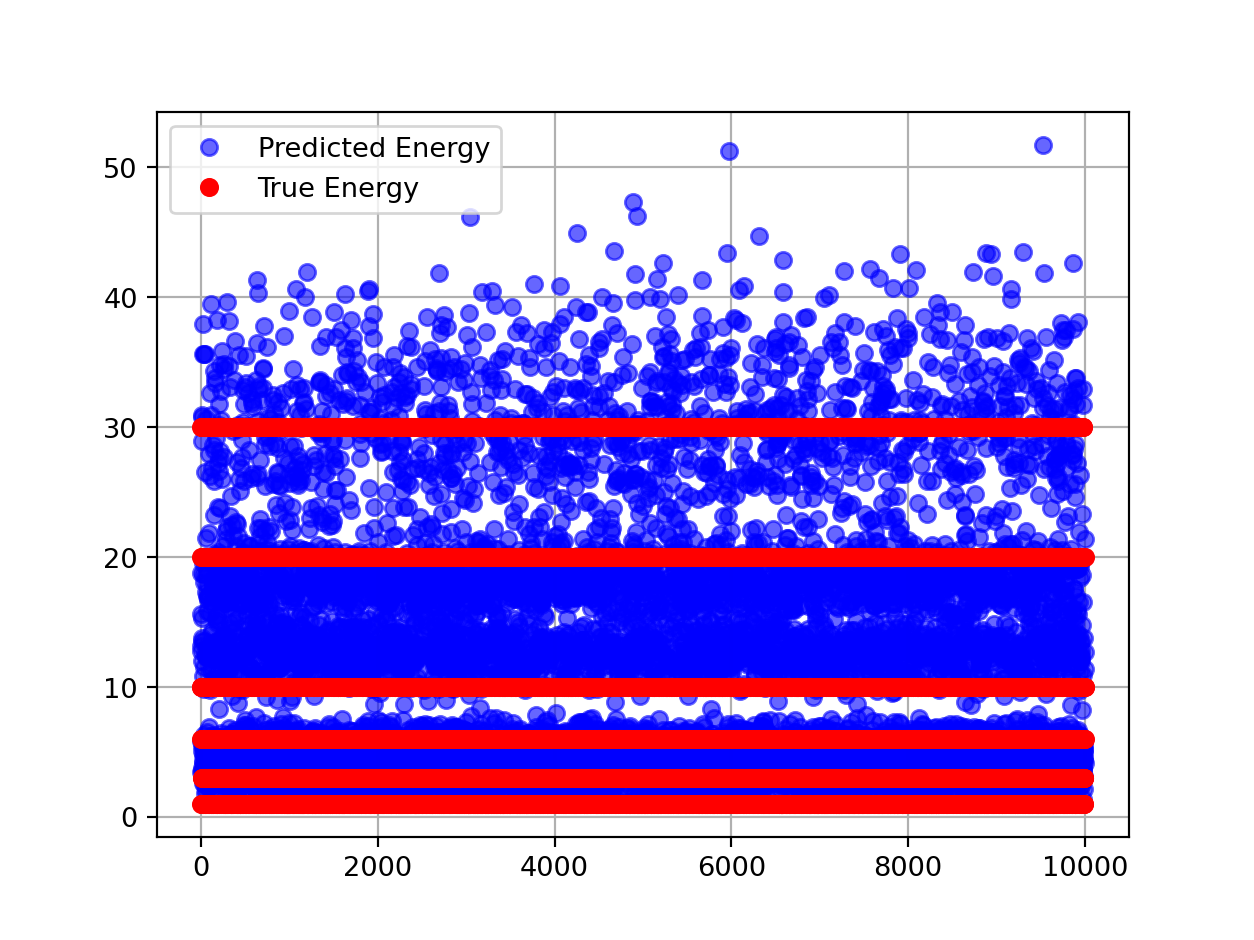
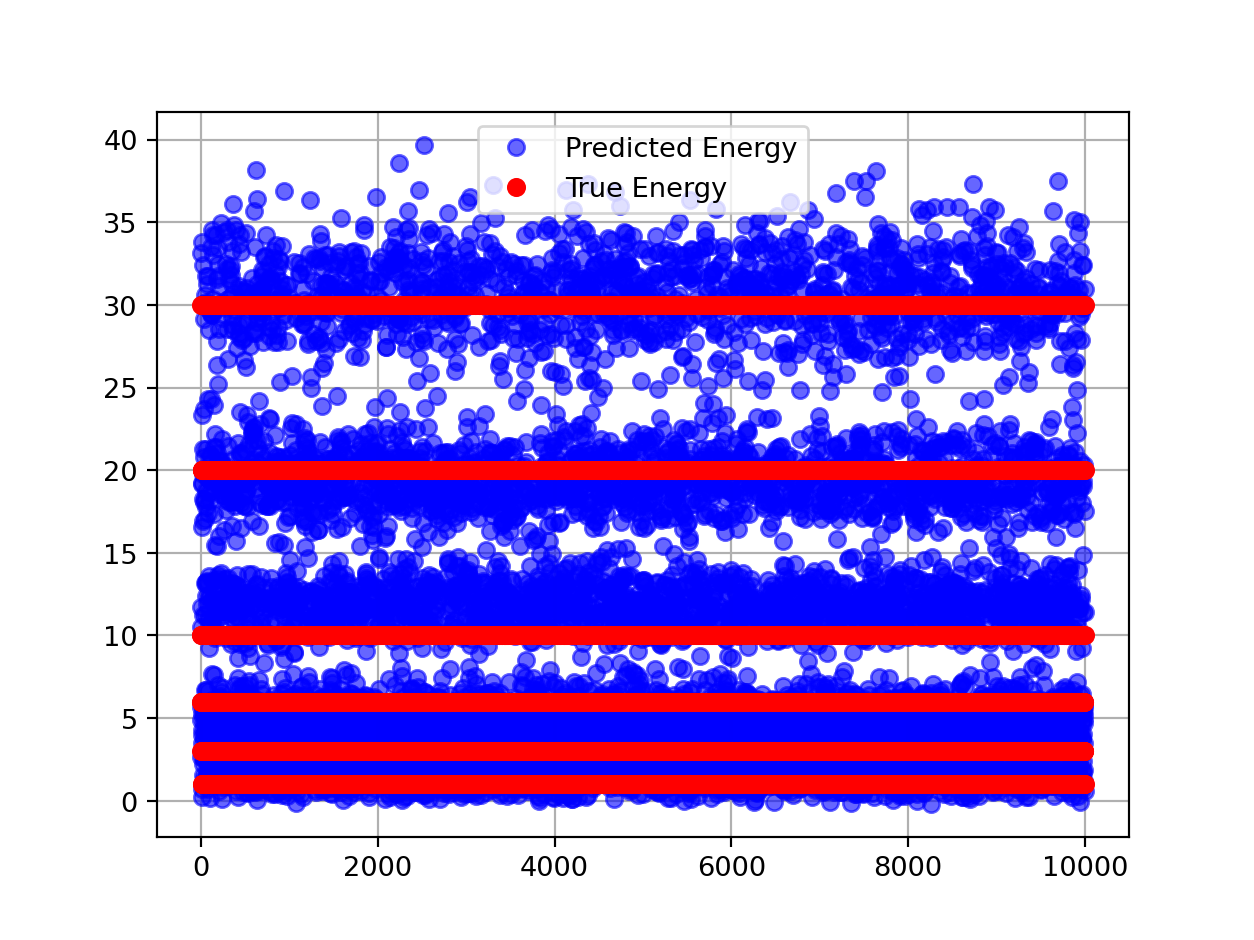
v06, MAE 1p54

diff --git a/idao/model.py b/idao/model.py
@@ -173,19 +173,19 @@ class SanteriConv(pl.LightningModule):
                     nn.Conv2d(32, 64, kernel_size=3, stride=1, padding=1),
                     nn.BatchNorm2d(64),
                     nn.ReLU(),
-                    nn.MaxPool2d(kernel_size=6, stride=1),
+                    nn.MaxPool2d(kernel_size=2, stride=2),
                     nn.Flatten(),
                 )
 
-        self.drop_out = nn.Dropout()
+        self.drop_out = nn.Dropout(p=0.3)
 
-        self.fc1 = nn.Linear(40000, 500)
-        self.fc2 = nn.Linear(500, 2)  # for classification
-        self.fc3 = nn.Linear(500, 1)  # for regression
-
+        self.fc1 = nn.Linear(14400, 1000)
+        self.fc2 = nn.Linear(1000, 2)  # for classification
+        self.fc3 = nn.Linear(1000, 1)  # for regression
+        self.relu = nn.ReLU()
 
         self.stem = nn.Sequential(
-            self.layer1, self.drop_out, self.fc1,
+            self.layer1, self.drop_out, self.fc1, self.relu,
             )
         if self.mode == "classification":
             self.classification = nn.Sequential(self.stem, self.fc2)

diff --git a/generate_submission.py b/generate_submission.py
@@ -56,7 +56,8 @@ def main():
     dl = dataset_dm.test_dataloader()
 
     dict_pred = defaultdict(list)
-    for mode in ["regression", "classification"]:
+#    for mode in ["regression", "classification"]:
+    for mode in ["regression"]:
         if mode == "classification":
             model_path = config["REPORT"]["ClassificationCheckpoint"]
         else:
